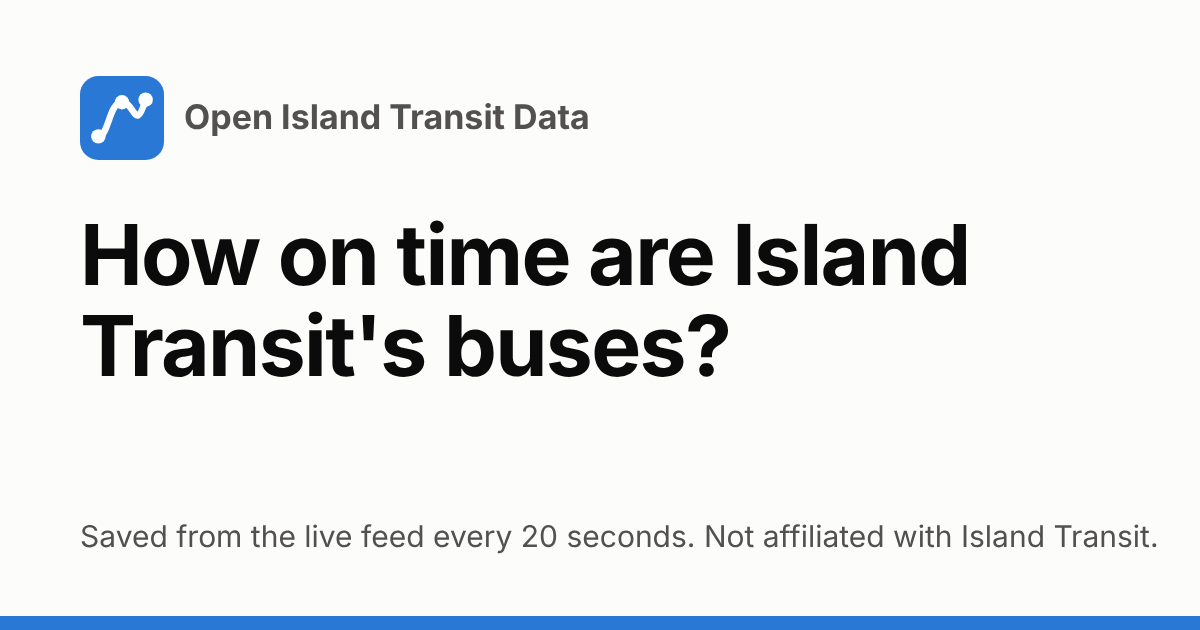
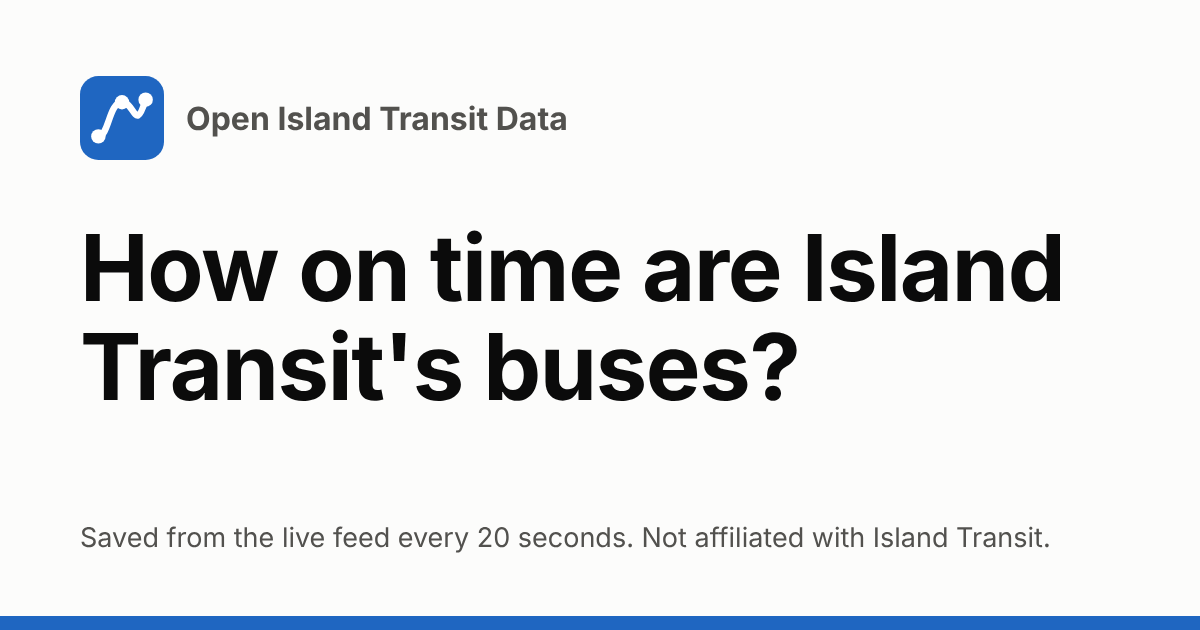
Link-preview card in the site's new blue, drawn by a script
tests/site/make-icons.mjs now draws site/social-card.png as well as the two
PNG icons, from the favicon and the site's colors, so the three cannot
drift apart. The card had the blue the palette no longer uses.

Claude-Session: https://claude.ai/code/session_0115iub1dW1u9Uvs7VJuNHjR

Changed region(s): [[0.0617, 0.3317, 0.8942, 0.6333], [0.0617, 0.8143, 0.9558, 0.8746], [0.1542, 0.1508, 0.4933, 0.2111]]

diff --git a/CLAUDE.md b/CLAUDE.md
@@ -146,7 +146,7 @@ Open checks from this pass:
 ## Waiting on Davin
 
 - **Repository settings** (cannot be set from a session): description, website URL and topics are empty; private vulnerability reporting is off though `SECURITY.md` points to it; the issue forms use labels `data` and `correction`, which do not exist.
-- **Visible choices made on 2026-11-22 for him to overrule**: teal for the "on time" band (green and red cannot be told apart by color-blind readers at a contrast that passes), a shape per band, the legend under the map, a row of route links under the home map, a table of contents on Methods and Codebook, small rates on their own axis. `site/social-card.png` still has the old blue.
+- **Visible choices made on 2026-11-22 for him to overrule**: teal for the "on time" band (green and red cannot be told apart by color-blind readers at a contrast that passes), a shape per band, the legend under the map, a row of route links under the home map, a table of contents on Methods and Codebook, small rates on their own axis. The link-preview card and the PNG icons are drawn from `site/favicon.svg` by `node tests/site/make-icons.mjs`; run it after a change of palette.
 
 - **Route 58 northbound**: the December guide's timetable no longer has a column for Cultus Bay Rd at Deer Lake Rd (the map text on the same page still names it). The December list follows the timetable. If he knows otherwise, add the row back.
 
